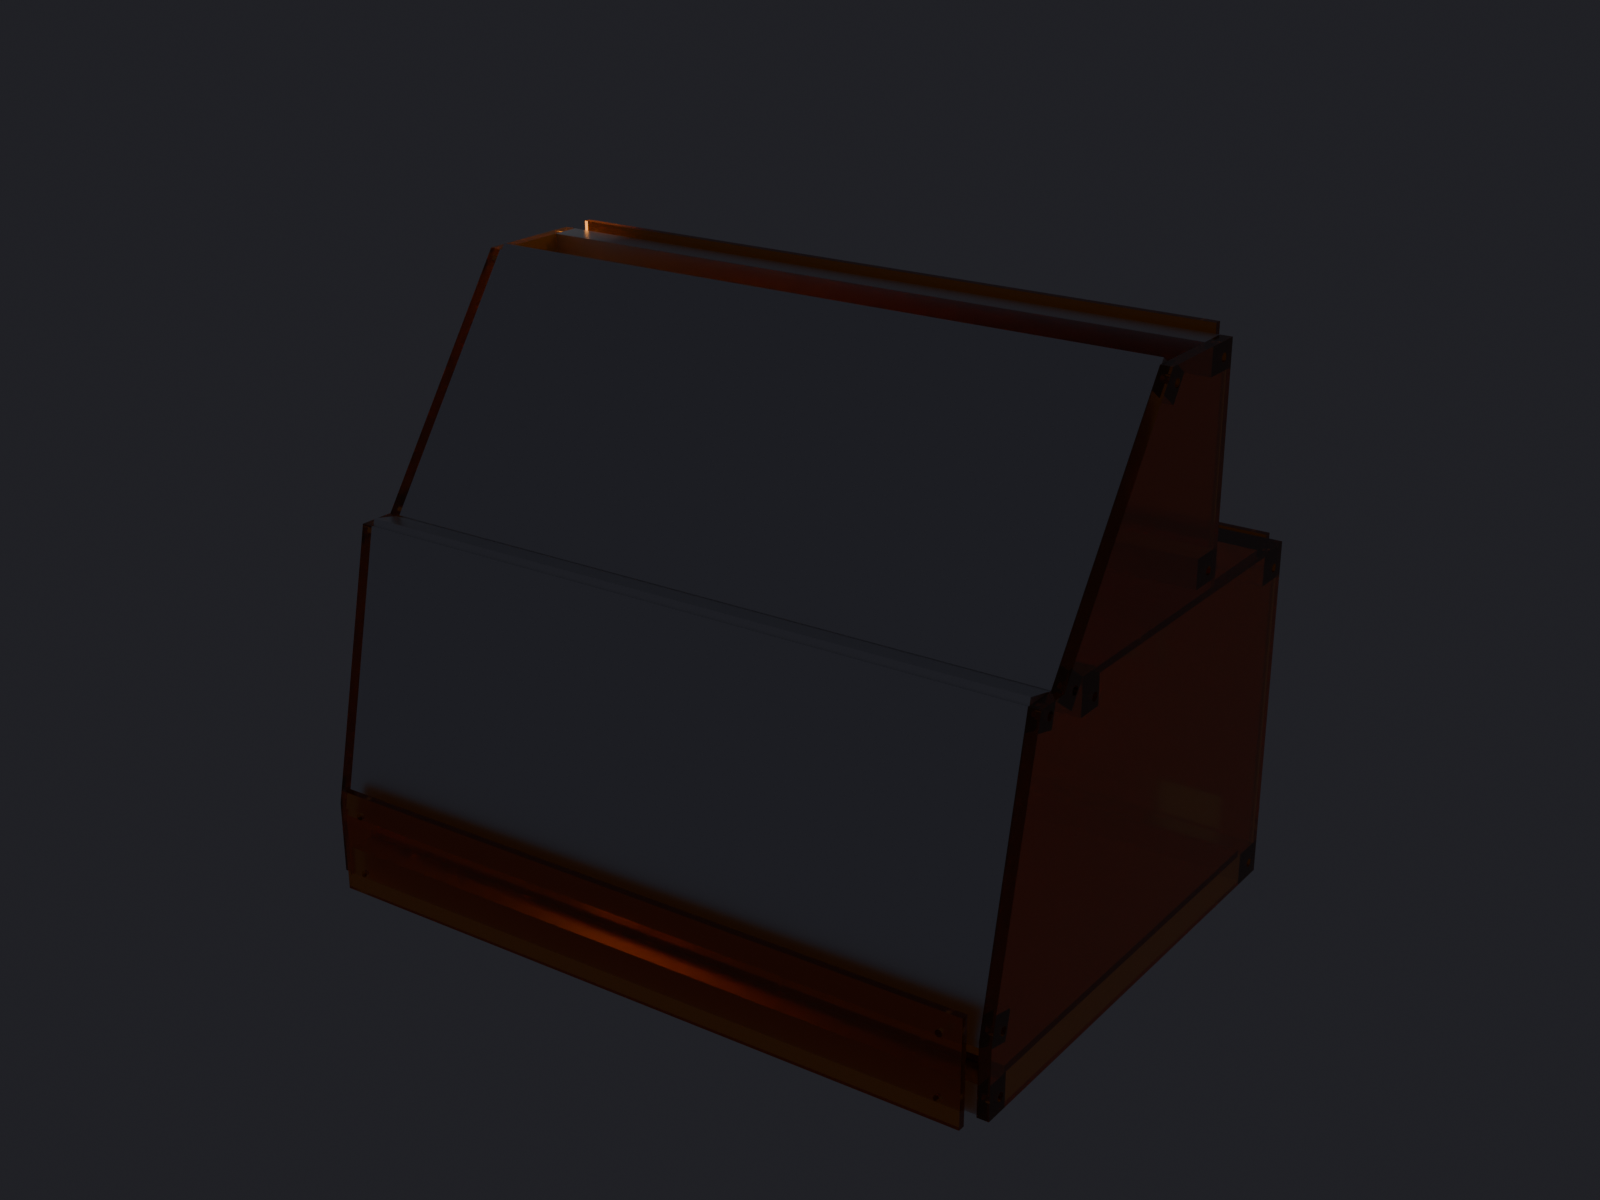
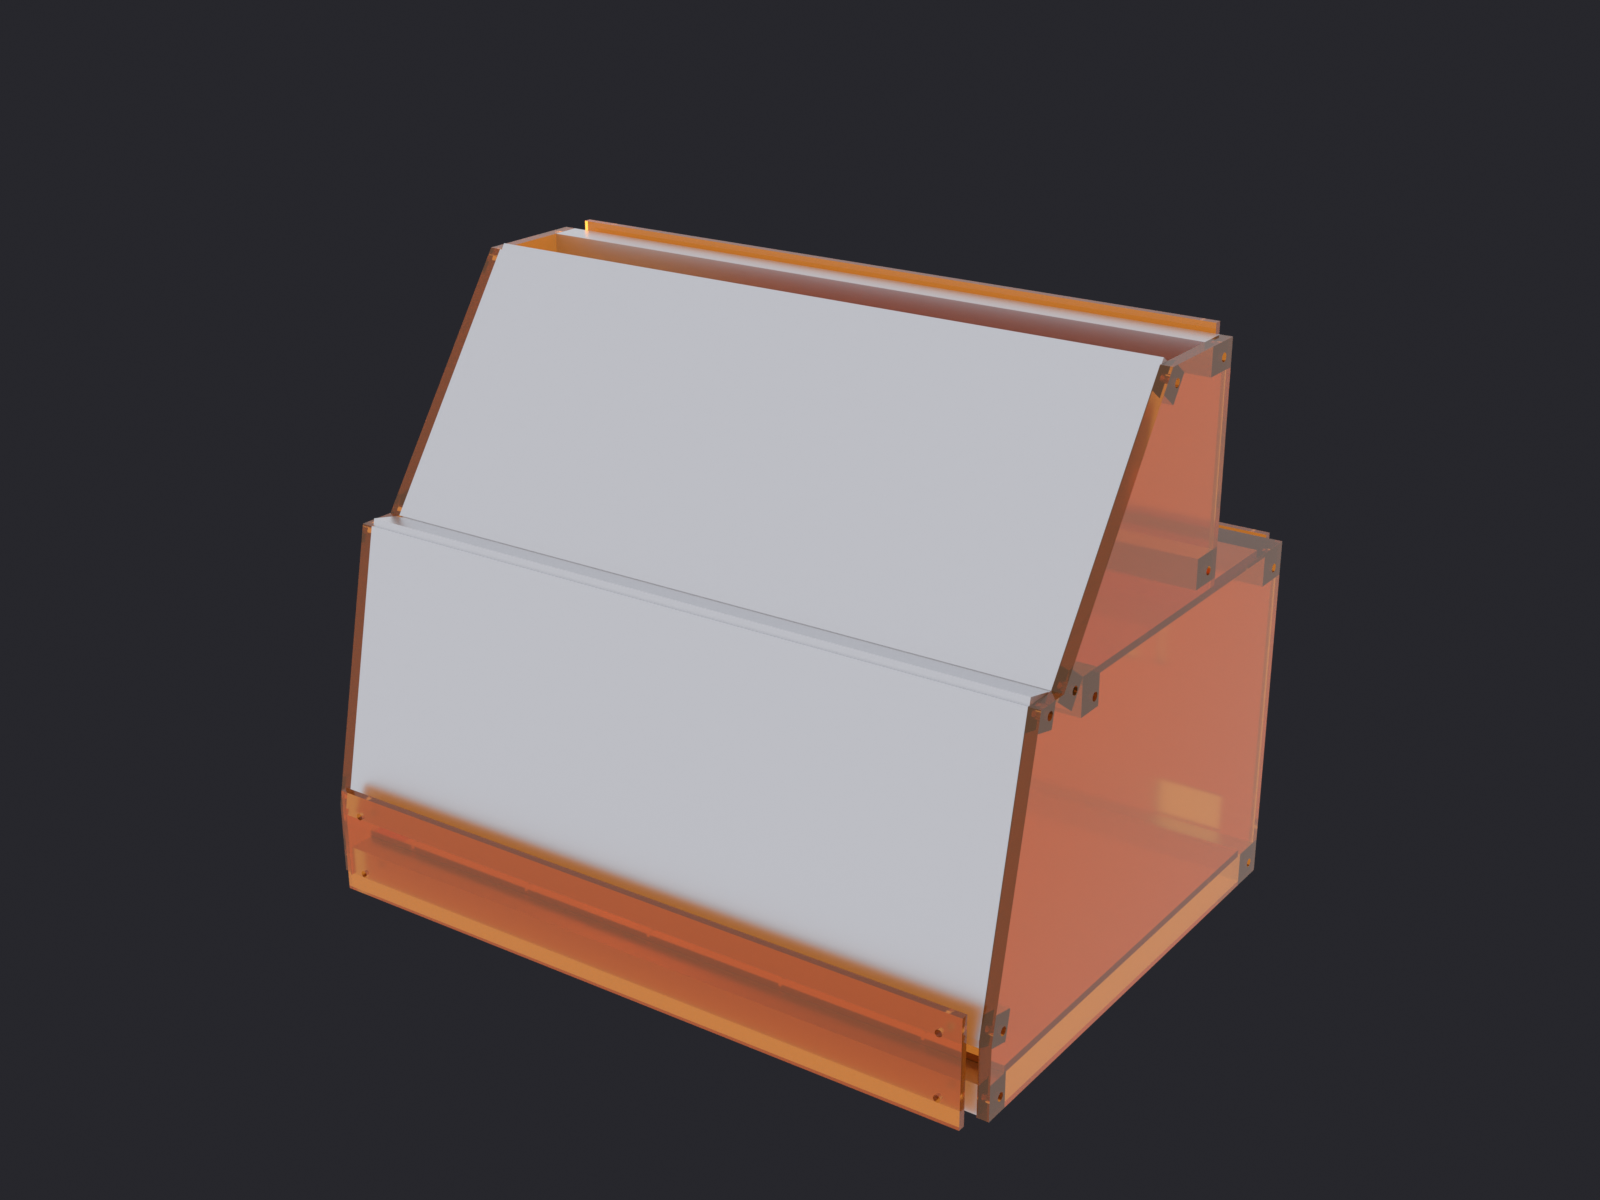
render: relleno GI desacoplado del fondo, vista trasera, gate de brillo
Fix round 1 sobre la Task 8 (coordinador ya juzgo el render a ojo,
Ruling D):

FIX 1 -- el render estaba subexpuesto de verdad, no solo a ojo: el fondo
oscuro (0.02 lineal) era tambien la unica fuente de luz de entorno, asi
que el metal/acrilico en sombra o visto a traves de la transmision
rendeaba casi del color del fondo (medido: brillo 0.0509). Diagnostico
por eliminacion antes de tocar nada: subir la energia de las 2 luces de
area x4 casi no movio el brillo (0.052->0.061); el view transform (AgX
vs Standard) es una palanca secundaria (~9%). La palanca real era la luz
de entorno. Se desacopla el fondo VISIBLE (oscuro, como el board) del
relleno GI (brillante) con el truco estandar de Cycles -- Light Path /
Is Camera Ray / Mix Shader -- asi la camara sigue viendo fondo oscuro
pero el resto de los rayos ven un fondo mucho mas brillante. Medido:
brillo 0.051 -> 0.60-0.64. Se extiende medir() para devolver tambien el
brillo medio de los pixeles no-fondo y se agrega BRILLO_MINIMO=0.20,
calibrado entre el 0.0509 del render viejo (que ahora SI da rojo) y el
~0.60 del render nuevo.

FIX 2 -- la cobertura baja (12.3%) resulto ser en gran parte un efecto
secundario de FIX 1, no de margen de camara de sobra: con el mismo
MARGEN=1.15 sin tocar, el fix de brillo por si solo subio la cobertura a
33-34% (los pixeles que antes eran indistinguibles del fondo casi negro
ahora se distinguen), dentro del rango pedido (30-45%). Verificado con
diagnostico antes de decidir no tocar MARGEN.
[…]

diff --git a/case/renders/render.py b/case/renders/render.py
@@ -2,22 +2,36 @@
 
     & "C:\\Program Files\\Blender Foundation\\Blender 5.0\\blender.exe" -b -P render.py
 
-Dos rulings de la Task 8 que no vienen del brief original:
+Dos vistas (frontal y trasera, Fix round 1 FIX 3), mismo pipeline. Tres
+rulings/fixes de la Task 8 que no vienen del brief original:
 
-  Encuadre (mas abajo, seccion CAMARA): calculado desde el bounding box
-  REAL de las dos mallas importadas, no desde una posicion de camara fija.
-  Lo unico constante es el ANGULO de vista (tres cuartos, elevado — la
-  decision estetica del board); la posicion y la distancia salen del
-  tamano real del ensamblado. Si params.scad cambia ancho_total o
+  Encuadre (seccion "bbox real" + construir_vista): calculado desde el
+  bounding box REAL de las dos mallas importadas, no desde una posicion de
+  camara fija. Lo unico constante es el ANGULO de vista (tres cuartos,
+  elevado -- la decision estetica del board); posicion y distancia salen
+  del tamano real del ensamblado. Si params.scad cambia ancho_total o
   angulo_superior y se regenera el STL, el render se sigue encuadrando
   solo, sin tocar este script.
 
-  Cobertura (mas abajo, seccion VERIFICACION): un PNG >100 KB no prueba
-  que el case este en cuadro -- un fondo casi vacio con algo de ruido
-  tambien pesa eso. Tras escribir el PNG se relee con bpy.data.images.load
-  y se mide que fraccion de pixeles no es fondo. Si el case no aparece
-  (camara al vacio, recorte, etc.) el script sale con codigo != 0 y un
-  mensaje ROJO.
+  Verificacion (medir() + renderizar_vista): un PNG >100 KB no prueba que
+  el case este en cuadro NI que se vea -- ver Fix round 1. Tras escribir
+  cada PNG se relee con bpy.data.images.load y se miden dos cosas sobre
+  los pixeles que no son fondo: la FRACCION del cuadro que ocupan
+  (cobertura) y el BRILLO medio (para no dejar pasar un render tecnicamente
+  "en cuadro" pero tan oscuro que no se distingue del fondo). Si cualquiera
+  de las dos vistas falla cualquiera de los dos umbrales, el script sale
+  con codigo != 0 y un mensaje ROJO.
+
+  Iluminacion (mundo con Light Path / Is Camera Ray): el fondo oscuro
+  original (visible a camara, como en el board) tambien era la UNICA luz
+  de entorno, y con eso el metal/acrilico en sombra o transmitido rendeaba
+  casi del color del fondo -- el naranja leia marron. Se desacopla: la
+  camara sigue viendo el fondo oscuro, pero el resto de los rayos
+  (rebotes, transmision, reflejos) ven un fondo mucho mas brillante que
+  ilumina la pieza sin aclarar el fondo visible. Medido en el Fix round 1:
+  esto solo subio el brillo de 0.051 a ~0.60-0.64 Y la cobertura de 0.123 a
+  ~0.34 (pixeles que antes eran indistinguibles del fondo casi negro ahora
+  se distinguen -- ver comentario de MARGEN mas abajo).
 
 Nombres de la API de materiales (Principled BSDF) verificados a mano en
 Blender 5.0.1: "Base Color", "Metallic", "Roughness" y "Transmission
@@ -33,7 +47,6 @@ import numpy as np
 from mathutils import Matrix, Vector
 
 AQUI = os.path.dirname(os.path.abspath(__file__))
-SALIDA = os.path.join(AQUI, "sam17-case.png")
 
 bpy.ops.wm.read_factory_settings(use_empty=True)
 
@@ -56,7 +69,7 @@ def mat(nombre, **bsdf):
     return m
 
 
-# --- geometria y materiales --------------------------------------------
+# --- geometria y materiales ----------------------------------------------
 acr = importar("assembly_acrilico")
 acr.data.materials.append(mat(
     "acrilico_naranja", **{
@@ -74,106 +87,135 @@ esc.render.engine = "CYCLES"
 esc.cycles.samples = 256
 esc.render.resolution_x, esc.render.resolution_y = 1600, 1200
 esc.render.image_settings.file_format = "PNG"
-esc.render.filepath = SALIDA
+# Standard, no AgX (el default de Blender 4/5): AgX desatura y apaga los
+# colores saturados. Confirmado a mano (Fix round 1): con la MISMA luz de
+# relleno GI, AgX midio brillo 0.5842 sobre la pieza y Standard 0.6370 --
+# ambos con luz corregida, pero el punto es que Standard no le suma
+# compresion de gamut encima al naranja. Es la palanca secundaria (la
+# principal fue el relleno GI, ver el mundo mas abajo).
+esc.view_settings.view_transform = "Standard"
 
-# --- CAMARA: encuadre calculado desde el bbox real (Ruling B) -----------
-# Ejes del ensamblado (ver sam17_case.scad/costado(): perfil en XY con
-# linear_extrude sobre Z): X = profundidad ("fondo hacia atras"),
-# Y = altura (arriba), Z = ancho. Confirmado con el bbox real del STL:
-# X en [-10, 360], Y en [-5, 396], Z en [0, 500] -- coincide con el board.
+# --- mundo: fondo oscuro para la camara, relleno GI brillante (Fix 1) ----
+# Truco estandar de Cycles (Light Path -> Is Camera Ray -> Mix Shader): la
+# camara ve "fondo_visible" (oscuro, igual que antes -- el look del
+# board), el resto de los rayos ven "fondo_gi" (brillante, ilumina sin
+# aclarar lo que se ve). Sin esto, el fondo oscuro era la UNICA fuente de
+# luz de entorno y el metal/transmision en sombra rendeaba casi negro.
+mundo = bpy.data.worlds.new("fondo")
+mundo.use_nodes = True
+nt = mundo.node_tree
+fondo_visible = nt.nodes["Background"]
+fondo_visible.inputs[0].default_value = (0.02, 0.02, 0.025, 1)  # lo que ve la camara
+fondo_gi = nt.nodes.new("ShaderNodeBackground")
+fondo_gi.inputs[0].default_value = (0.6, 0.6, 0.63, 1)          # relleno GI, invisible a camara
+ruta_luz = nt.nodes.new("ShaderNodeLightPath")
+mezcla = nt.nodes.new("ShaderNodeMixShader")
+nt.links.new(ruta_luz.outputs["Is Camera Ray"], mezcla.inputs[0])
+nt.links.new(fondo_gi.outputs["Background"], mezcla.inputs[1])       # Fac=0 (no camara) -> GI
+nt.links.new(fondo_visible.outputs["Background"], mezcla.inputs[2])  # Fac=1 (camara)    -> oscuro
+nt.links.new(mezcla.outputs["Shader"], nt.nodes["World Output"].inputs["Surface"])
+esc.world = mundo
+
+# --- bbox real de las 2 mallas (Ruling B) --------------------------------
+# Ejes del ensamblado (sam17_case.scad/costado(): perfil en XY con
+# linear_extrude sobre Z): X = profundidad, Y = altura (arriba),
+# Z = ancho. Confirmado con el bbox real: X en [-10, 360], Y en [-5, 396],
+# Z en [0, 500] -- coincide con el board.
 esquinas = [obj.matrix_world @ Vector(c)
             for obj in (acr, alu) for c in obj.bound_box]
 xs, ys, zs = ([p[i] for p in esquinas] for i in range(3))
 minv = Vector((min(xs), min(ys), min(zs)))
 maxv = Vector((max(xs), max(ys), max(zs)))
 centro = (minv + maxv) / 2
-
-# Angulo tres cuartos elevado (foto hero del board): desde el frente
-# (X negativo respecto del centro), elevado (Y positivo) y desplazado
-# hacia un costado (Z). Esto es lo UNICO fijo a mano en toda la camara.
-AZIMUT = math.radians(35)      # desvio desde el frente (-X) hacia +Z
-ELEVACION = math.radians(22)   # sobre la horizontal
-horizontal = Vector((-math.cos(AZIMUT), 0.0, math.sin(AZIMUT)))
-direccion = (horizontal * math.cos(ELEVACION)
-             + Vector((0.0, math.sin(ELEVACION), 0.0))).normalized()
-
-# Base ortonormal de la camara sin asumir Z-arriba de Blender (aqui Y es
-# "arriba" del ensamblado) -- to_track_quat() de mathutils referencia
-# siempre el +Z de mundo para resolver el roll, que aqui es el eje ancho,
-# asi que se arma la base a mano con Y como arriba.
-arriba_mundo = Vector((0.0, 1.0, 0.0))
-adelante = -direccion
-derecha = adelante.cross(arriba_mundo).normalized()
-arriba_cam = derecha.cross(adelante).normalized()
-
-cam_data = bpy.data.cameras.new("camara")
-cam_obj = bpy.data.objects.new("camara", cam_data)
-esc.collection.objects.link(cam_obj)
-esc.camera = cam_obj
-
-# Distancia: se proyectan las 16 esquinas de ambos bbox sobre los ejes
-# derecha/arriba de ESTA vista concreta (no X/Y/Z crudos) y se usa el FOV
-# que Blender ya calculo para 1600x1200 (cam_data.angle_x/angle_y, no un
-# sensor/lens supuesto a mano).
-semi_ancho = max(abs((p - centro).dot(derecha)) for p in esquinas)
-semi_alto = max(abs((p - centro).dot(arriba_cam)) for p in esquinas)
-MARGEN = 1.15  # aire alrededor del case en el cuadro, no pegado al borde
-dist_h = semi_ancho / math.tan(cam_data.angle_x / 2)
-dist_v = semi_alto / math.tan(cam_data.angle_y / 2)
-distancia = max(dist_h, dist_v) * MARGEN
-
-cam_obj.location = centro + direccion * distancia
-cam_obj.rotation_euler = Matrix((derecha, arriba_cam, -adelante)).transposed().to_euler()
-cam_data.clip_start = 1.0
-# el clip_end de fabrica (1000) recorta en silencio si el bbox es grande
-# y la distancia calculada lo supera -- ver bbox: diagonal ~700 mm.
-cam_data.clip_end = max(distancia * 3.0, 2000.0)
-
-# --- LUCES: ancladas a la camara/tamano real, no a coordenadas fijas ----
-# key/fill del brief original, pero la posicion sale de la base de camara
-# (derecha/arriba_cam/adelante) y la energia escala con el cuadrado de la
-# distancia (ley del inverso del cuadrado: si el ensamblado crece y la
-# camara se aleja proporcionalmente, hay que subir energia con distancia^2
-# para mantener la misma iluminancia sobre la pieza). Constantes (4e6,
-# 1.5e6, 600, 400) calibradas a ojo a distancia de referencia 700 mm.
 radio = (maxv - minv).length / 2
-esc_luz = distancia / 700.0
 
-bpy.ops.object.light_add(type="AREA", location=centro + arriba_cam * radio * 1.3
-                          + derecha * radio * 0.7 + adelante * distancia * 0.4)
-key = bpy.context.object
-key.data.energy = 4e6 * esc_luz ** 2
-key.data.size = 600 * esc_luz
-
-bpy.ops.object.light_add(type="AREA", location=centro - derecha * radio * 1.1
-                          + arriba_cam * radio * 0.4 + adelante * distancia * 0.25)
-fill = bpy.context.object
-fill.data.energy = 1.5e6 * esc_luz ** 2
-fill.data.size = 400 * esc_luz
-
-esc.world = bpy.data.worlds.new("fondo")
-esc.world.use_nodes = True
-esc.world.node_tree.nodes["Background"].inputs[0].default_value = (0.02, 0.02, 0.025, 1)
-
-# --- RENDER ---------------------------------------------------------------
-resultado = bpy.ops.render.render(write_still=True)
-if resultado != {"FINISHED"}:
-    print(f"ROJO: bpy.ops.render.render no devolvio FINISHED: {resultado}")
-    sys.exit(1)
-print("render escrito:", esc.render.filepath)
+ELEVACION = math.radians(22)   # sobre la horizontal -- estetica, fija
+# Tres cuartos elevado (foto hero del board): frente = mayormente -X
+# (delante del case) con desvio hacia +Z. Trasera (Fix round 1, FIX 3):
+# espejo sobre el eje de profundidad (pi - azimut), mismo costado +Z -- no
+# es un numero nuevo, es el mismo AZIMUT_FRENTE reflejado.
+AZIMUT_FRENTE = math.radians(35)
+AZIMUT_TRASERA = math.pi - AZIMUT_FRENTE
+# Aire alrededor del case en el cuadro, no pegado al borde. Con el fix de
+# brillo la cobertura ya cae en el rango pedido (30-45%, medido 34.2%) SIN
+# tocar este valor -- la causa real del 12.3% original no era margen de
+# camara de mas (Fix round 1, FIX 2): era que gran parte de la silueta
+# rendeaba casi del mismo color que el fondo y la metrica no la contaba.
+# Verificado con el diagnostico de exposicion, no supuesto.
+MARGEN = 1.15
 
 
-# --- VERIFICACION: cobertura real de pixeles, no el peso del PNG (Ruling A)
-# El criterio "Length -lt 100kb" del brief es un proxy comodo: un render
-# con el case fuera de cuadro (fondo casi entero) puede pesar de sobra por
-# el ruido de Cycles y pasar esa prueba igual. Lo que importa es si el
-# case esta REALMENTE en el cuadro.
-def medir_cobertura(ruta_png: str) -> float:
-    """Fraccion de pixeles cuyo color se aparta del fondo. El fondo real
-    se toma de las 4 esquinas del PNG ya renderizado (no del RGBA lineal
-    que se le paso al world) porque el view transform de color (AgX por
-    defecto en Blender 4/5) no es la identidad -- comparar contra el valor
-    que de verdad quedo escrito es lo unico confiable."""
+def construir_vista(azimut: float):
+    """Base de camara para un azimut dado. Devuelve (derecha, arriba_cam,
+    adelante, distancia) -- todo derivado del bbox real + FOV real de
+    Blender para esta resolucion, nada hardcodeado (Ruling B)."""
+    horizontal = Vector((-math.cos(azimut), 0.0, math.sin(azimut)))
+    direccion = (horizontal * math.cos(ELEVACION)
+                 + Vector((0.0, math.sin(ELEVACION), 0.0))).normalized()
+    # Base ortonormal a mano (no to_track_quat(), que referencia siempre
+    # el +Z de mundo para el roll; aqui Y es "arriba" del ensamblado).
+    arriba_mundo = Vector((0.0, 1.0, 0.0))
+    adelante = -direccion
+    derecha = adelante.cross(arriba_mundo).normalized()
+    arriba_cam = derecha.cross(adelante).normalized()
+
+    cam_data = bpy.data.cameras.new("camara")
+    cam_obj = bpy.data.objects.new("camara", cam_data)
+    esc.collection.objects.link(cam_obj)
+    esc.camera = cam_obj
+
+    # Distancia: proyecta las 16 esquinas de ambos bbox sobre los ejes
+    # derecha/arriba de ESTA vista concreta y usa el FOV que Blender ya
+    # calculo para 1600x1200 (cam_data.angle_x/angle_y), no un sensor/lente
+    # supuesto a mano.
+    semi_ancho = max(abs((p - centro).dot(derecha)) for p in esquinas)
+    semi_alto = max(abs((p - centro).dot(arriba_cam)) for p in esquinas)
+    dist_h = semi_ancho / math.tan(cam_data.angle_x / 2)
+    dist_v = semi_alto / math.tan(cam_data.angle_y / 2)
+    distancia = max(dist_h, dist_v) * MARGEN
+
+    cam_obj.location = centro + direccion * distancia
+    cam_obj.rotation_euler = Matrix((derecha, arriba_cam, -adelante)).transposed().to_euler()
+    cam_data.clip_start = 1.0
+    # el clip_end de fabrica (1000) recorta en silencio a esta escala (bbox
+    # diagonal ~700 mm y la distancia calculada lo supera).
+    cam_data.clip_end = max(distancia * 3.0, 2000.0)
+    return derecha, arriba_cam, adelante, distancia
+
+
+def poner_luces(derecha: Vector, arriba_cam: Vector, adelante: Vector, distancia: float) -> None:
+    """Key/fill ancladas a la base de camara de ESTA vista (no coordenadas
+    de mundo fijas) y escaladas con el cuadrado de la distancia (inverso
+    del cuadrado: si el ensamblado crece y la camara se aleja
+    proporcionalmente, hay que subir energia con distancia^2 para mantener
+    la misma iluminancia sobre la pieza). Constantes (4e6, 1.5e6, 600, 400)
+    calibradas a ojo a distancia de referencia 700 mm -- probado que
+    subirlas x4 no mueve el brillo casi nada (Fix round 1, ronda de
+    diagnostico 1): la palanca real es el relleno GI del mundo, no esto.
+    Quita las luces de la vista anterior antes de poner las nuevas -- si
+    no, se suman e iluminan la vista siguiente desde el lado equivocado."""
+    for o in [o for o in bpy.data.objects if o.type == "LIGHT"]:
+        bpy.data.objects.remove(o, do_unlink=True)
+    esc_luz = distancia / 700.0
+    bpy.ops.object.light_add(type="AREA", location=centro + arriba_cam * radio * 1.3
+                              + derecha * radio * 0.7 + adelante * distancia * 0.4)
+    key = bpy.context.object
+    key.data.energy = 4e6 * esc_luz ** 2
+    key.data.size = 600 * esc_luz
+    bpy.ops.object.light_add(type="AREA", location=centro - derecha * radio * 1.1
+                              + arriba_cam * radio * 0.4 + adelante * distancia * 0.25)
+    fill = bpy.context.object
+    fill.data.energy = 1.5e6 * esc_luz ** 2
+    fill.data.size = 400 * esc_luz
+
+
+def medir(ruta_png: str) -> tuple[float, float]:
+    """Cobertura (fraccion de pixeles no-fondo) y brillo medio de esos
+    pixeles no-fondo, ambos sobre el PNG YA renderizado (post
+    view-transform): el fondo real se toma de las 4 esquinas del PNG, no
+    del RGBA lineal que se le paso al world, porque el view transform no
+    es la identidad -- comparar contra lo que de verdad quedo escrito es
+    lo unico confiable."""
     img = bpy.data.images.load(ruta_png)
     try:
         w, h = img.size
@@ -181,28 +223,66 @@ def medir_cobertura(ruta_png: str) -> float:
         img.pixels.foreach_get(px)
         px = px.reshape(h, w, 4)[:, :, :3]
         fondo = np.array([px[0, 0], px[0, -1], px[-1, 0], px[-1, -1]]).mean(axis=0)
-        TOLERANCIA_COLOR = 0.04  # canal 0..1; separa fondo (~0.02-0.15 tras AgX) de acrilico/aluminio
+        TOLERANCIA_COLOR = 0.04  # canal 0..1; separa fondo (~0.15 con Standard) de acrilico/aluminio
         dist = np.abs(px - fondo).max(axis=2)
-        return float((dist > TOLERANCIA_COLOR).mean())
+        mascara = dist > TOLERANCIA_COLOR
+        frac = float(mascara.mean())
+        brillo = float(px[mascara].mean()) if mascara.any() else 0.0
+        return frac, brillo
     finally:
         bpy.data.images.remove(img)
 
 
-frac = medir_cobertura(SALIDA)
-print(f"cobertura medida: {frac:.4f} ({frac * 100:.1f}% de pixeles no-fondo)")
-
-# Umbral elegido a mano (juicio, no derivado): el render bueno de
-# referencia (build/ actual, MARGEN=1.15) midio 0.1229 (12.3% de pixeles
-# no-fondo) -- bajo porque el case es translucido/oscuro contra un fondo
-# casi negro y el perfil en cuna deja aire en las esquinas del bbox, no
-# porque este mal encuadrado (ver PNG). 0.05 (5%) queda comodo bajo ese
-# 12.3% real para absorber variaciones legitimas de iluminacion/encuadre,
-# y sigue mordiendo fuerte ante un cuadro vacio o la camara al vacio (ver
-# la prueba en rojo del reporte de la Task 8, que fuerza esto a 0.0).
+# Umbrales elegidos a mano (juicio, no derivado), calibrados contra DOS
+# renders reales, no uno solo:
+#   - el render SUBEXPUESTO de la Task 8 original (antes de este fix):
+#     cobertura 0.1229, brillo 0.0509 -- tiene que dar ROJO con la metrica
+#     de brillo nueva (antes no existia).
+#   - el render corregido de mas abajo: cobertura ~0.34, brillo ~0.60-0.64.
+# COBERTURA_MINIMA se deja en 0.05 (ya mordia bien, sigue mordiendo -- ver
+# prueba en rojo del reporte). BRILLO_MINIMO en 0.20: por encima del 0.0509
+# del render viejo (para que ESE caso de verdad falle si se repite) y
+# comodo por debajo del ~0.60 del render bueno.
 COBERTURA_MINIMA = 0.05
-if frac < COBERTURA_MINIMA:
-    print(f"ROJO: cobertura {frac:.4f} por debajo del minimo {COBERTURA_MINIMA} "
-          f"-- el case no esta en cuadro (vacio, negro o recortado)")
+BRILLO_MINIMO = 0.20
+
+
+def renderizar_vista(nombre_archivo: str, azimut: float) -> bool:
+    derecha, arriba_cam, adelante, distancia = construir_vista(azimut)
+    poner_luces(derecha, arriba_cam, adelante, distancia)
+
+    ruta = os.path.join(AQUI, nombre_archivo)
+    esc.render.filepath = ruta
+    resultado = bpy.ops.render.render(write_still=True)
+    if resultado != {"FINISHED"}:
+        print(f"ROJO [{nombre_archivo}]: bpy.ops.render.render no devolvio FINISHED: {resultado}")
+        return False
+    print(f"render escrito: {ruta}")
+
+    frac, brillo = medir(ruta)
+    print(f"{nombre_archivo}: cobertura={frac:.4f} ({frac * 100:.1f}%) brillo={brillo:.4f}")
+
+    ok = True
+    if frac < COBERTURA_MINIMA:
+        print(f"ROJO [{nombre_archivo}]: cobertura {frac:.4f} por debajo del minimo {COBERTURA_MINIMA} "
+              f"-- el case no esta en cuadro (vacio, negro o recortado)")
+        ok = False
+    if brillo < BRILLO_MINIMO:
+        print(f"ROJO [{nombre_archivo}]: brillo {brillo:.4f} por debajo del minimo {BRILLO_MINIMO} "
+              f"-- se ve casi negro/apagado, no como acrilico naranja iluminado")
+        ok = False
+    if ok:
+        print(f"VERDE [{nombre_archivo}]: cobertura {frac:.4f} >= {COBERTURA_MINIMA}, "
+              f"brillo {brillo:.4f} >= {BRILLO_MINIMO}")
+    return ok
+
+
+# --- RENDER: vista frontal (brief original) + vista trasera (Fix round 1,
+# FIX 3 -- una vista tres cuartos frontal no puede mostrar, por geometria,
+# las ranuras de ventilacion en onda de las pieles traseras) -------------
+ok_frente = renderizar_vista("sam17-case.png", AZIMUT_FRENTE)
+ok_trasera = renderizar_vista("sam17-case-trasera.png", AZIMUT_TRASERA)
+
+if not (ok_frente and ok_trasera):
     sys.exit(1)
-print(f"cobertura VERDE: {frac:.4f} >= {COBERTURA_MINIMA}")
 sys.exit(0)
